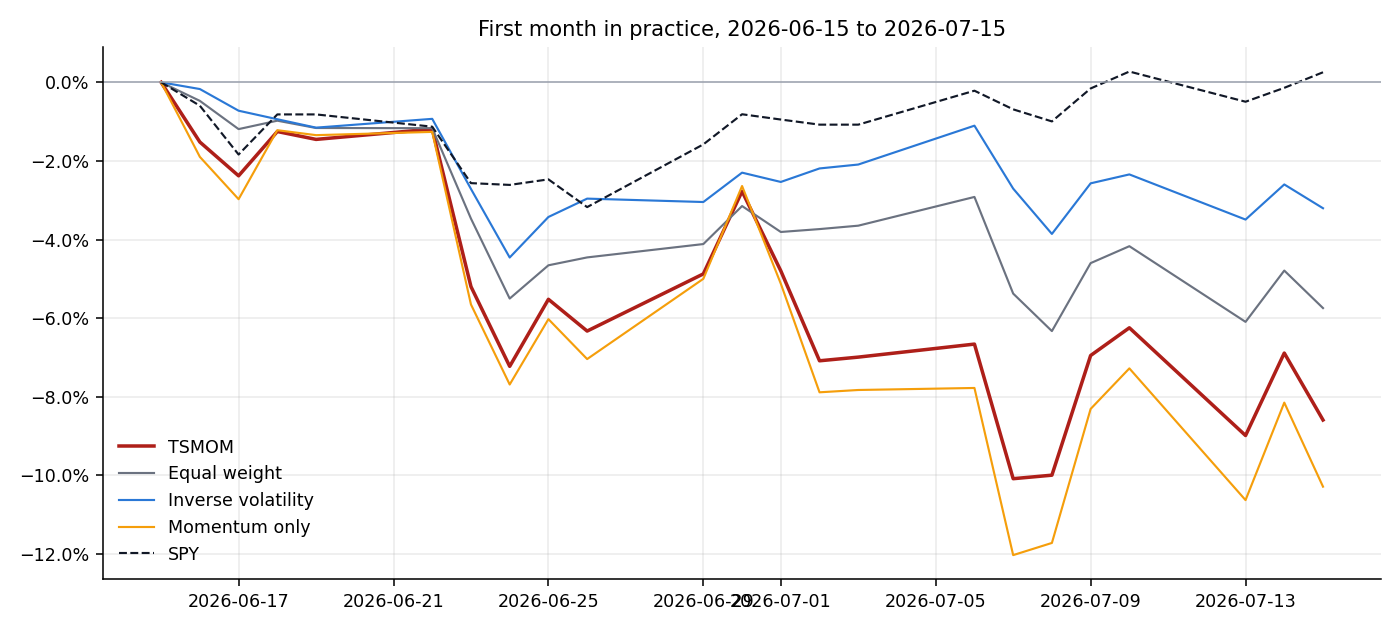
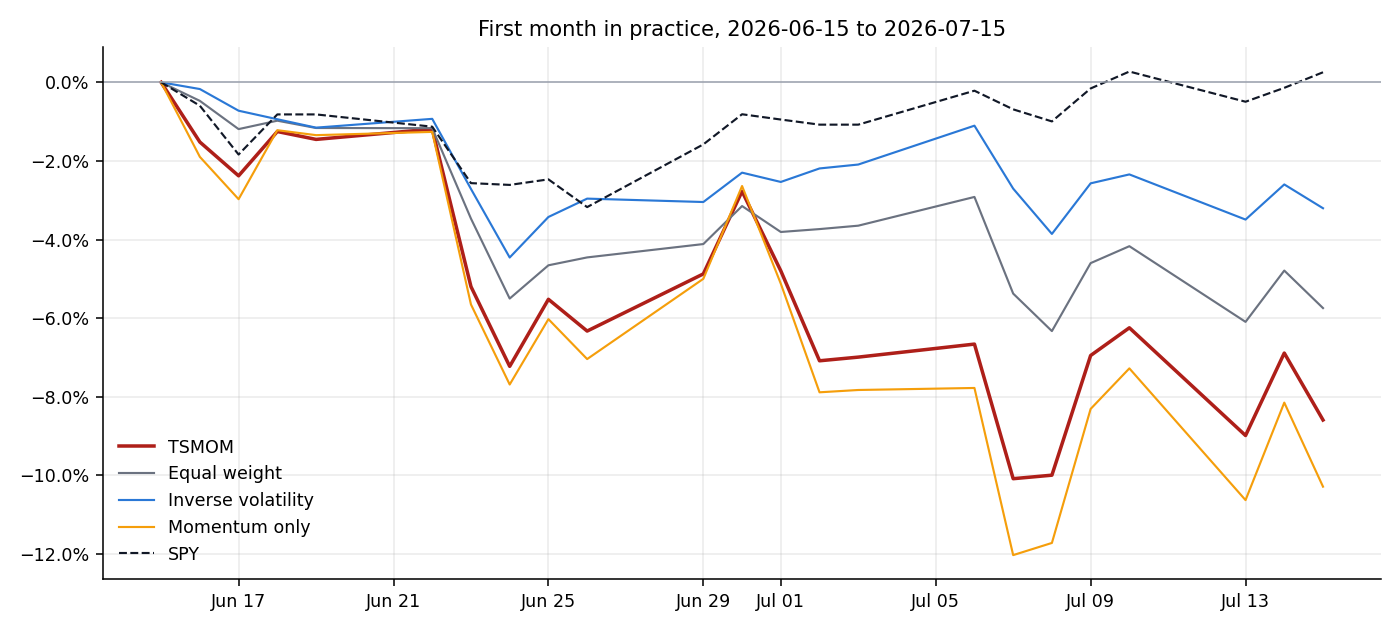
Fix overlapping dates on the first month chart

diff --git a/research/run_study.py b/research/run_study.py
@@ -10,6 +10,7 @@ from pathlib import Path
 import matplotlib
 
 matplotlib.use("Agg")
+import matplotlib.dates  # noqa: E402
 import matplotlib.pyplot as plt  # noqa: E402
 import pandas as pd  # noqa: E402
 
@@ -114,6 +115,7 @@ def figures(results, allocation, month_paths):
                 lw=1.8 if name == "tsmom" else 1.1, ls="--" if name == "SPY" else "-")
     ax.set_title("First month in practice, 2026-06-15 to 2026-07-15")
     ax.yaxis.set_major_formatter(matplotlib.ticker.PercentFormatter(1.0))
+    ax.xaxis.set_major_formatter(matplotlib.dates.DateFormatter("%b %d"))
     ax.axhline(0, color="#9ca3af", lw=0.8)
     ax.legend(frameon=False)
     ax.grid(alpha=0.25)
